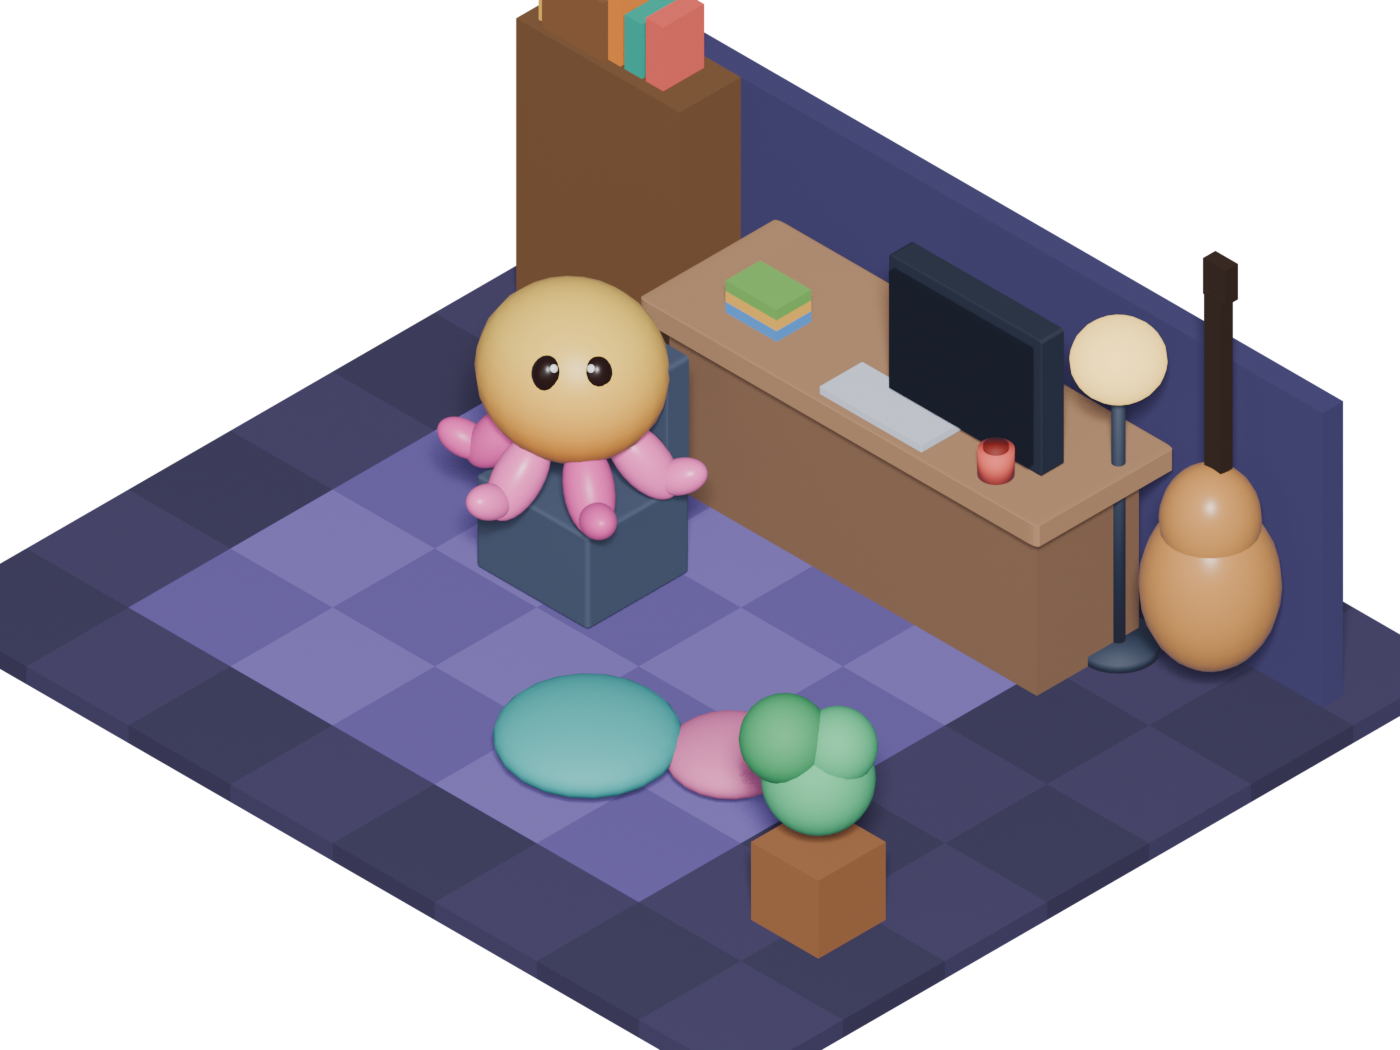
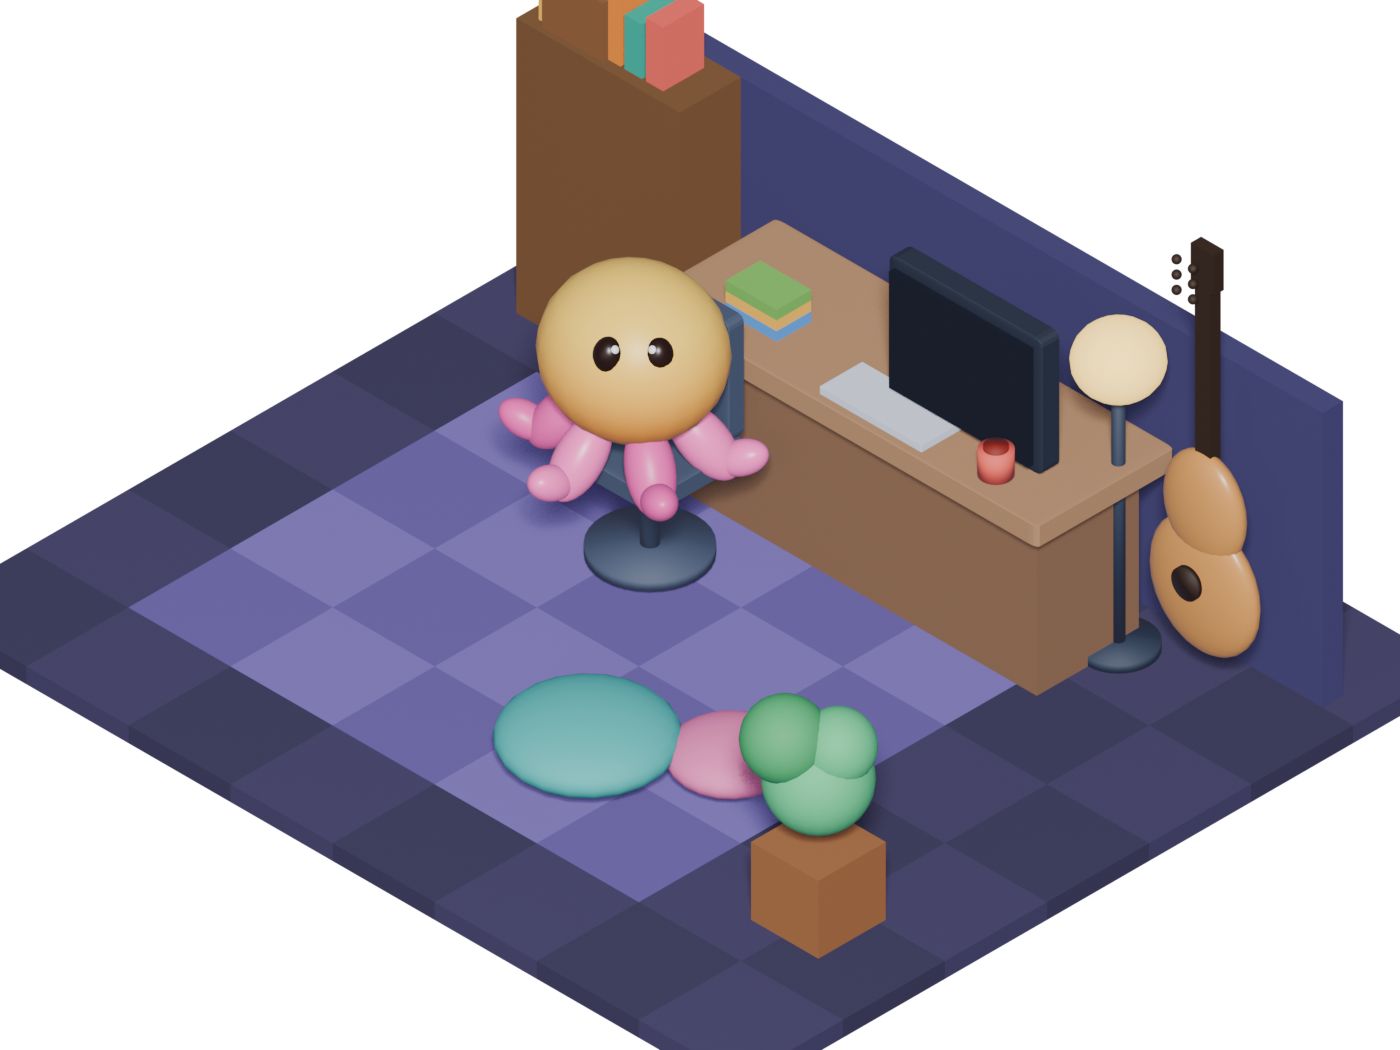
feat(webui): офис — коррекции (гитара/стул/посадка/монитор)
По пунктам:
- Гитара: вместо «вазы» — плоский корпус-восьмёрка (два бочка) + длинный
  гриф с головой/колками + розетка.
- Осьминог: вместо тёмного ящика — офисный стул (сиденье/спинка/стойка/
  база-блин).
- Придвинут к столу (hc ближе к столешнице), слева от монитора (экран
  не загораживает).
- Монитор: видимая подставка (нога+база) на столе, тоньше рамка.

Экран не двигал → coords прежние, оверлей на месте (Playwright, 0 ошибок).

diff --git a/tools/office_blender.py b/tools/office_blender.py
@@ -157,13 +157,17 @@ for r, z in enumerate((0.95, 1.75, 2.5)):          # 3 ряда книг (вер
         box(f"bk{r}_{i}", 0.52 + i * 0.21, 5.5, z, 0.17, 0.4, 0.46 + ((i + r) % 3) * 0.08,
             mat(f"bk{r}{i}", bookCols[(i + r) % 7]))
 
-# ── гитара, прислонённая к дальней стене (правый угол) ──
+# ── гитара, прислонённая к дальней стене (плоский корпус-восьмёрка) ──
 gBody = mat("guitarBody", "#c98a44", rough=0.35); gNeck = mat("guitarNeck", "#2f2113")
-ellipsoid("guitarBody", (7.1, 5.5, 1.0), (0.5, 0.5, 0.66), None, gBody)
-ellipsoid("guitarWaist", (7.1, 5.5, 1.55), (0.36, 0.36, 0.42), None, gBody)
-box("guitarNeck", 7.02, 5.52, 1.95, 0.16, 0.12, 1.5, gNeck)
-box("guitarHead", 7.0, 5.53, 3.4, 0.22, 0.12, 0.3, gNeck)
-cyl("guitarHole", 7.1, 5.38, 1.05, 0.13, 0.04, mat("ghole", "#3a2a18"), rot=(math.radians(90), 0, 0))
+gX, gY = 7.0, 5.55
+ellipsoid("guitarLow", (gX, gY, 0.92), (0.52, 0.17, 0.56), None, gBody)    # нижний бочок (шире)
+ellipsoid("guitarUp", (gX, gY, 1.58), (0.38, 0.16, 0.46), None, gBody)     # верхний бочок (уже)
+box("guitarNeck", gX - 0.08, gY - 0.02, 1.95, 0.15, 0.1, 1.55, gNeck)      # гриф длинный
+box("guitarHead", gX - 0.1, gY - 0.04, 3.45, 0.22, 0.1, 0.34, gNeck)       # голова грифа
+cyl("guitarHole", gX, gY - 0.18, 1.02, 0.13, 0.05, mat("ghole", "#2a1d12"), rot=(math.radians(90), 0, 0))
+for i in range(3):                                                          # колки
+    sphere(f"gpegA{i}", gX - 0.18, gY - 0.1, 3.38 + i * 0.13, 0.035, gNeck)
+    sphere(f"gpegB{i}", gX - 0.02, gY - 0.1, 3.38 + i * 0.13, 0.035, gNeck)
 
 # ── стол у дальней стены (вверх кадра) ──
 deskBody, deskTop = mat("deskBody", "#7a5c44"), mat("deskTop", "#a07a57")
@@ -172,17 +176,20 @@ box("deskTop", 2.45, 4.55, 1.4, 3.9, 1.35, 0.18, deskTop, bevel=0.02)
 
 # ── монитор (экран на -y грани — к камере; стоит на дальнем краю стола) ──
 monBody = mat("monBody", "#232a38")
-box("monStand", 4.9, 5.05, 1.4, 0.3, 0.45, 0.2, monBody)
-box("monBody", 4.45, 5.0, 1.58, 1.5, 0.22, 1.15, monBody, bevel=0.02)
+box("monFoot", 4.95, 5.04, 1.58, 0.5, 0.24, 0.05, monBody)              # подставка на столе
+box("monNeck", 5.12, 5.07, 1.58, 0.14, 0.12, 0.16, monBody)            # ножка
+box("monBody", 4.45, 5.0, 1.58, 1.5, 0.18, 1.15, monBody, bevel=0.05)  # тонкая рамка
 screen = box("Screen", 4.52, 4.93, 1.66, 1.36, 0.05, 0.99, mat("screen", "#11151f", rough=0.15, emit=0.35))
 
 # ── клавиатура (ближе к переднему краю стола) ──
 box("kbd", 4.15, 4.62, 1.58, 1.0, 0.42, 0.06, mat("kbd", "#cbd5e0"), bevel=0.01)
 
-# ── стул (перед столом, спинкой к столу) ──
+# ── офисный стул (перед столом, спинкой к столу) ──
 chair = mat("chair", "#3f4a5e")
-box("seat", 2.35, 3.05, 0, 1.1, 1.0, 0.78, chair, bevel=0.03)
-box("back", 2.35, 3.83, 0.78, 1.1, 0.22, 1.05, chair, bevel=0.03)
+box("seatTop", 2.62, 3.5, 0.84, 1.02, 0.96, 0.16, chair, bevel=0.07)     # сиденье
+box("seatBack", 2.7, 4.32, 1.0, 0.86, 0.16, 1.02, chair, bevel=0.06)     # спинка (к столу)
+cyl("chairPost", 3.13, 3.98, 0.45, 0.07, 0.8, chair)                      # стойка
+cyl("chairBase", 3.13, 3.98, 0.08, 0.46, 0.09, chair)                     # база-блин
 
 g = mat("plant", "#48bb78")
 # ── растение №1 (на крыше шкафа, у дальней стены) ──
@@ -215,7 +222,7 @@ for i in range(3):
     box(f"deskBook{i}", 3.0, 4.85, 1.58 + i * 0.09, 0.5, 0.34, 0.09, mat(f"dbk{i}", bookCols[(i + 1) % 7]))
 
 # ── ОСЬМИНОГ-МАСКОТ (как лого FreePalp): круглая оранжево-жёлтая голова + розовые щупальца ──
-hc = Vector((2.9, 3.45, 1.74))                           # центр головы (перед столом, слева от монитора)
+hc = Vector((3.1, 3.85, 1.8))                            # центр головы (на стуле, придвинут к столу)
 headM = mat_grad("octoHead", "#ef8a28", "#ffd24a")       # низ оранжевый → верх жёлтый
 ellipsoid("octoHead", hc, (0.70, 0.66, 0.64), None, headM)
 # глаза на ПОВЕРХНОСТИ головы, к камере (eyedir = camdir с компенсацией поворота комнаты)